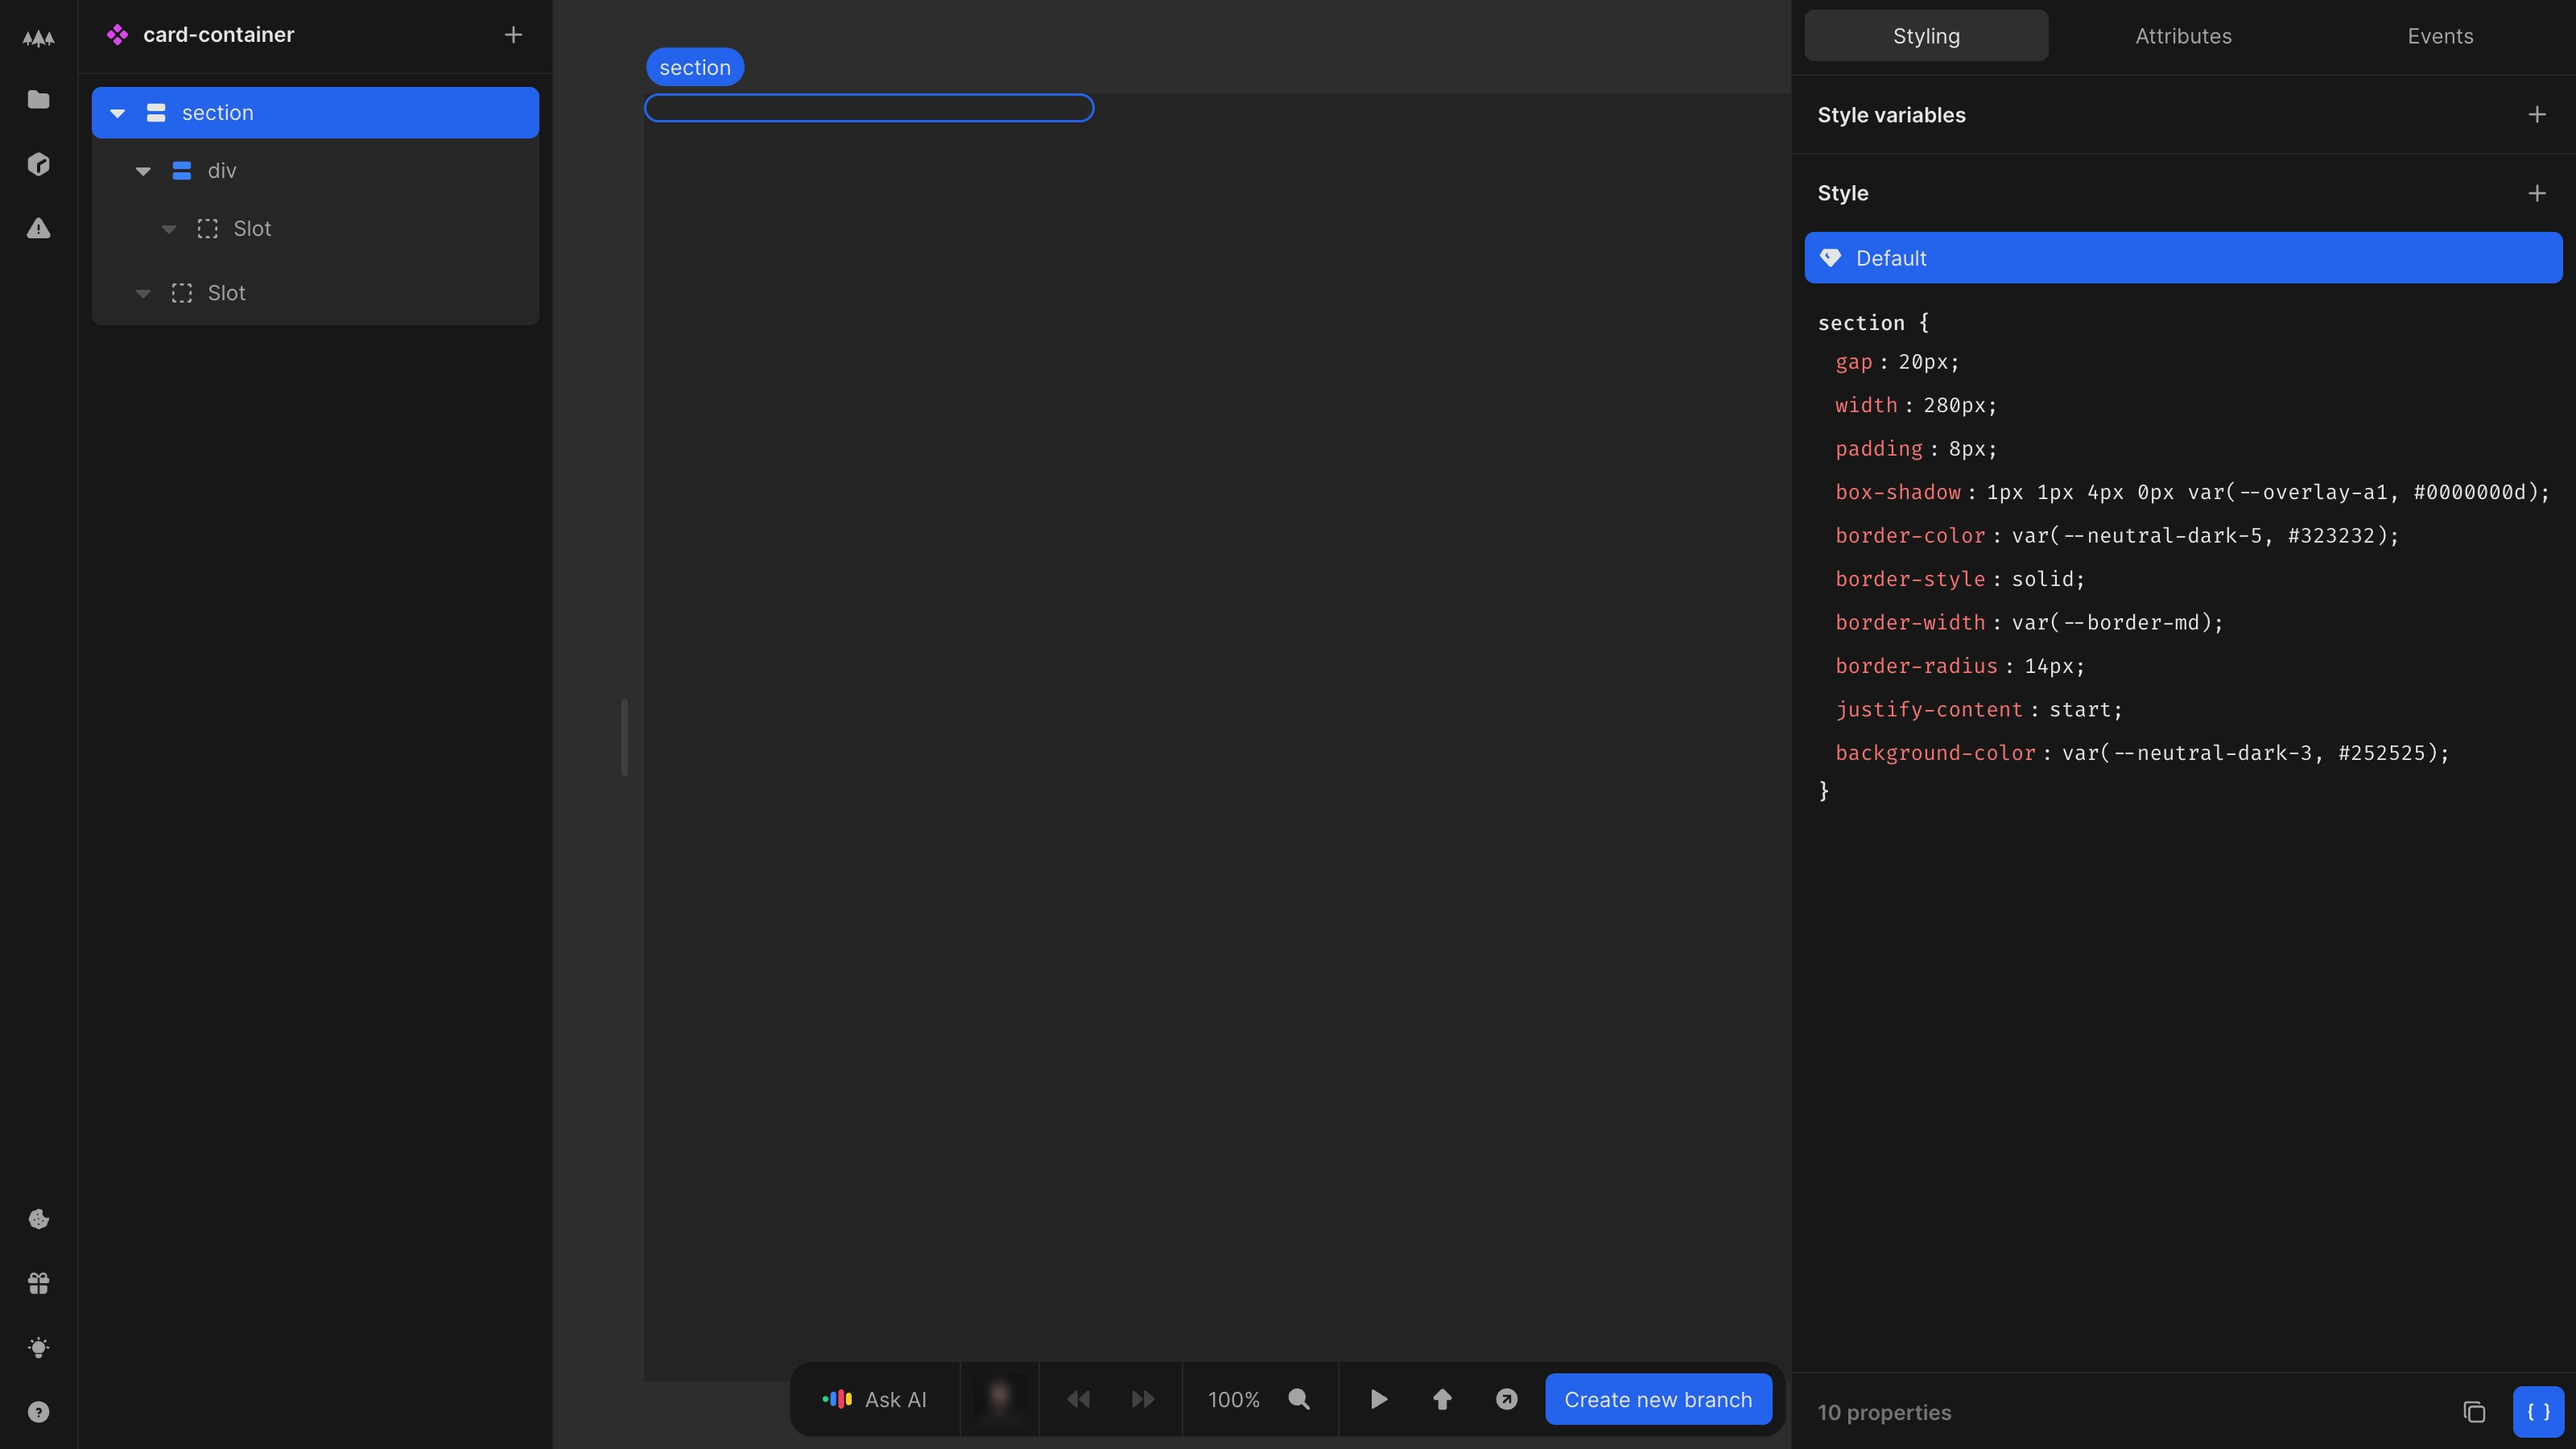
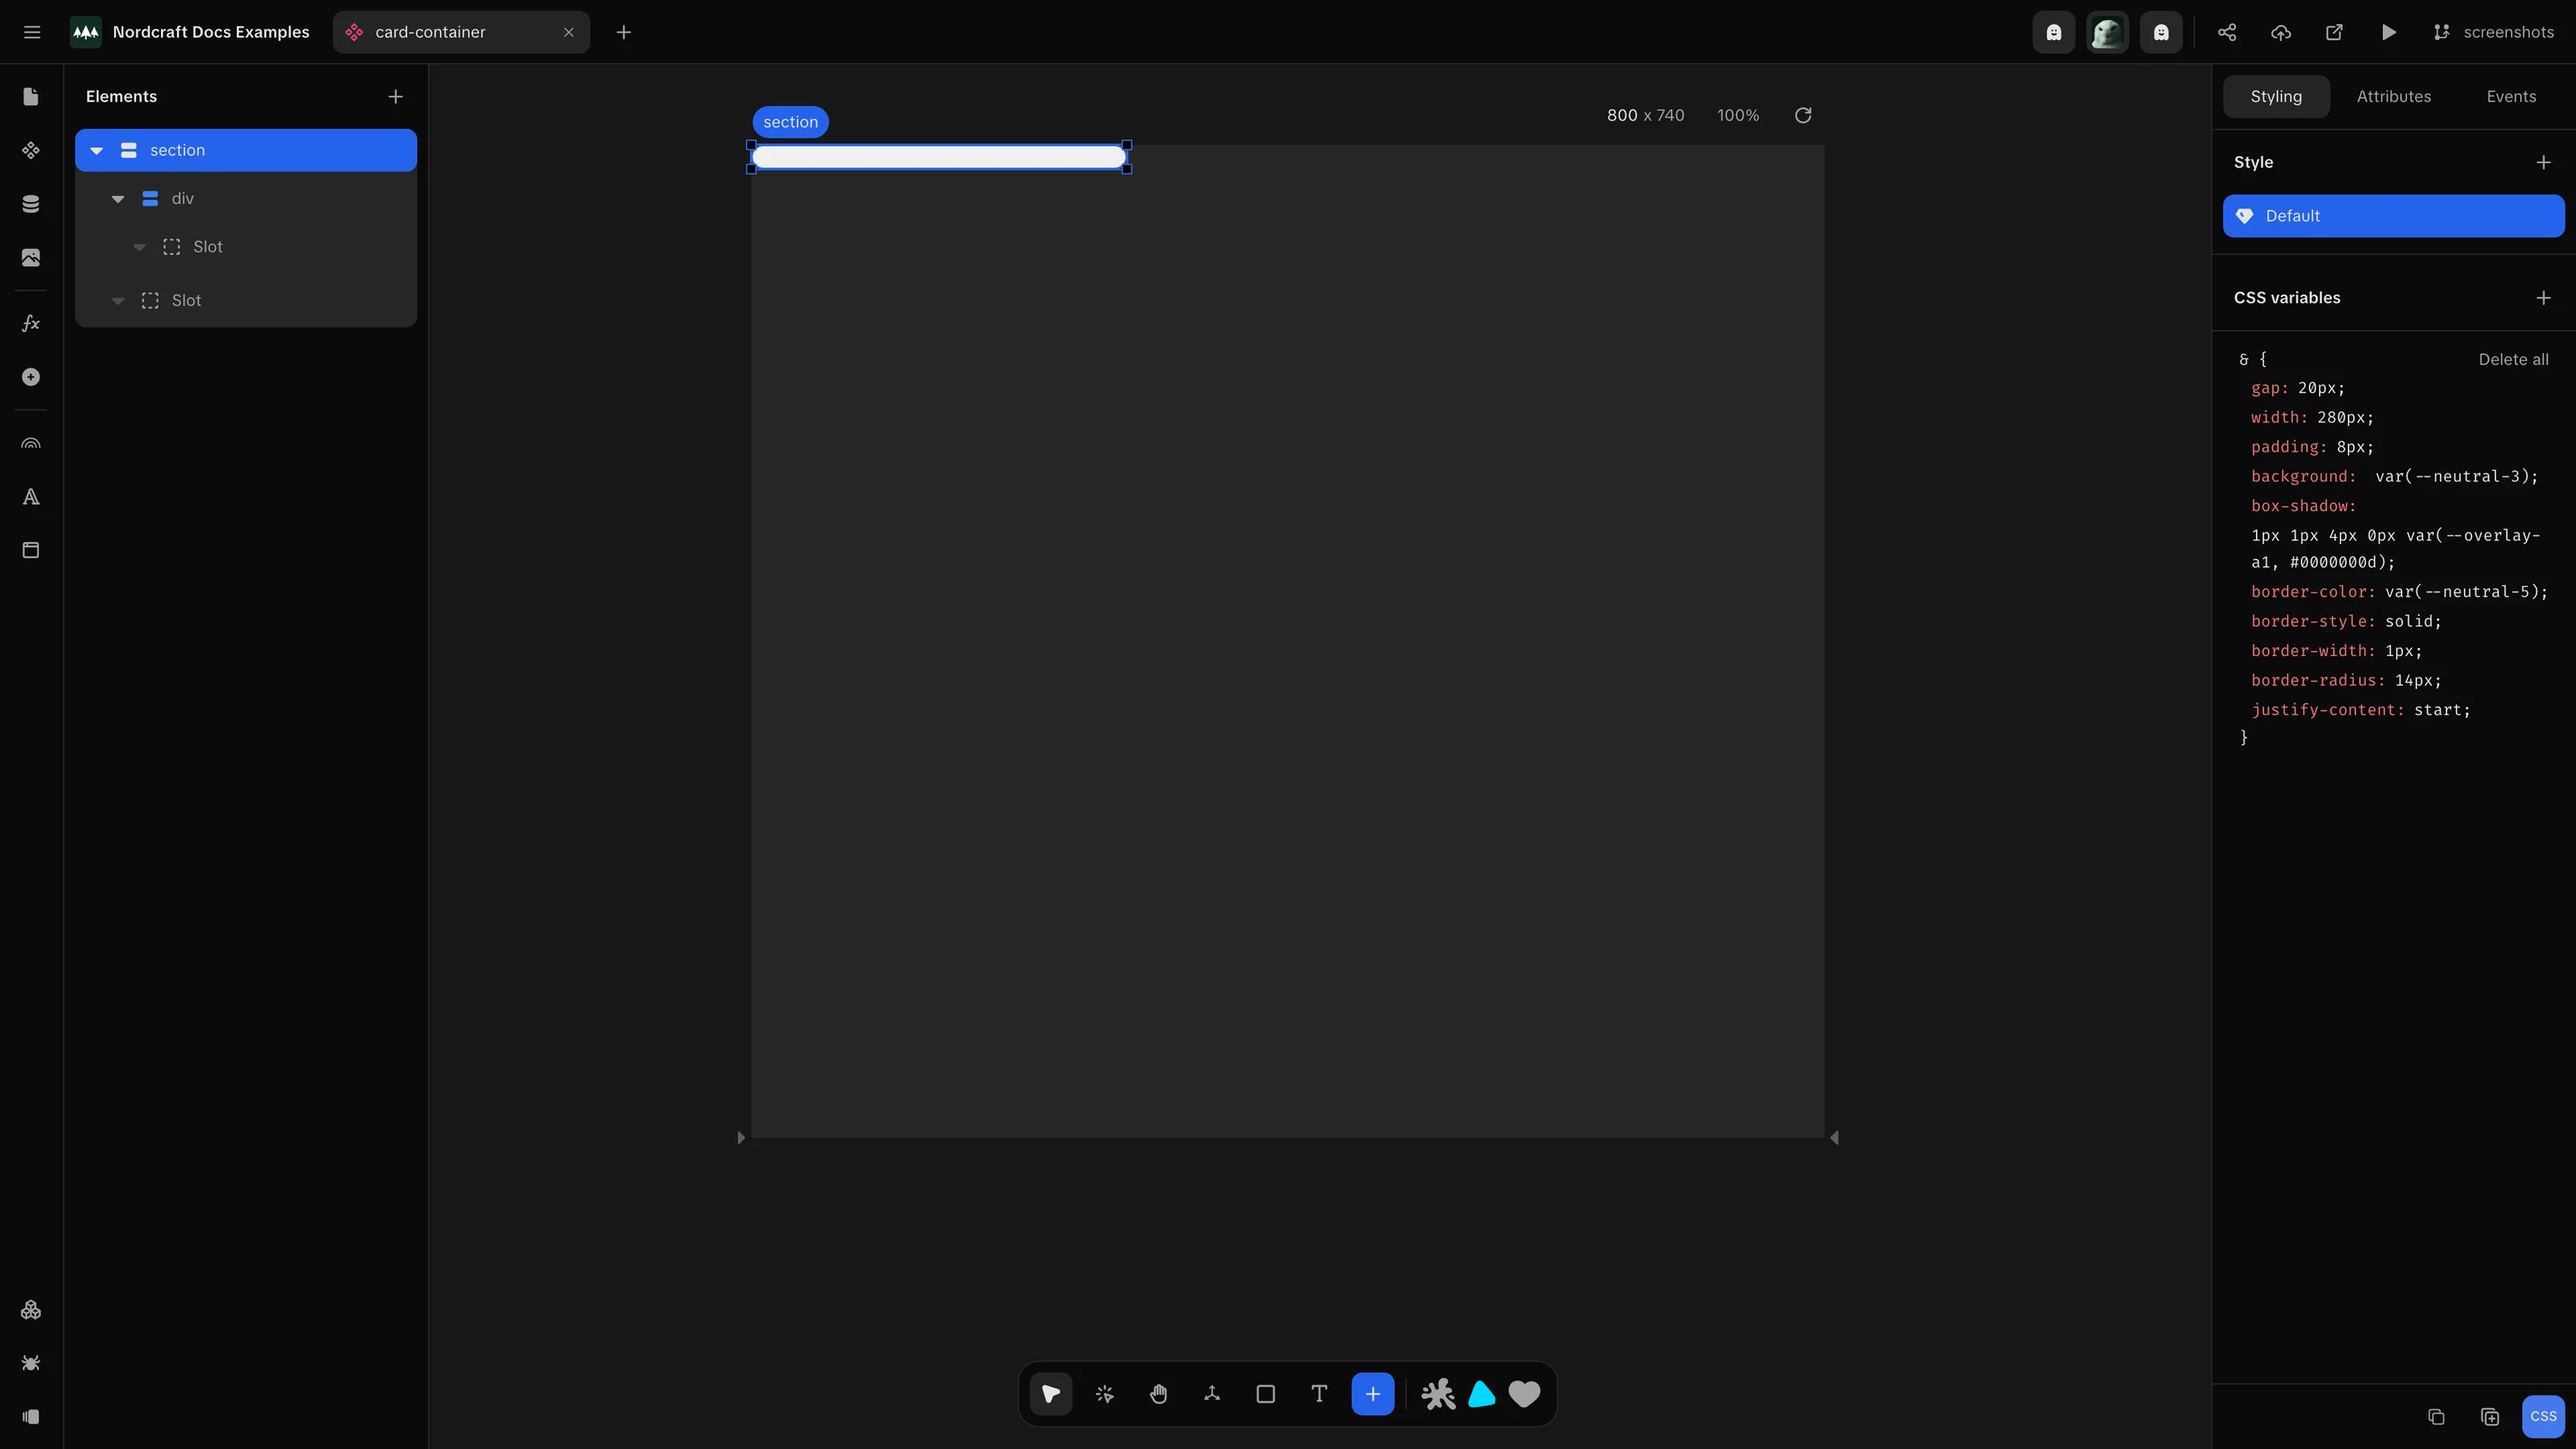
element panel css

diff --git a/docs/the-editor/element-panel/element-panel-css-editor.screenshot.ts b/docs/the-editor/element-panel/element-panel-css-editor.screenshot.ts
@@ -1,0 +1,12 @@
+import { defineScreenshot } from '@/scripts/capture-screenshots'
+import type { Page } from 'playwright'
+
+// Placeholder script for element-panel-css-editor.webp
+export default defineScreenshot({
+  path: '/projects/docs_examples/branches/screenshots/components/card-container?mode=design&canvas-tool=select&canvas-width=800&selection=nodes.root&rightpanel=style',
+  setup: async (page: Page) => {
+    await page.waitForTimeout(500)
+    await page.getByRole('button', { name: 'CSS', exact: true }).click()
+    await page.waitForTimeout(100)
+  },
+})
